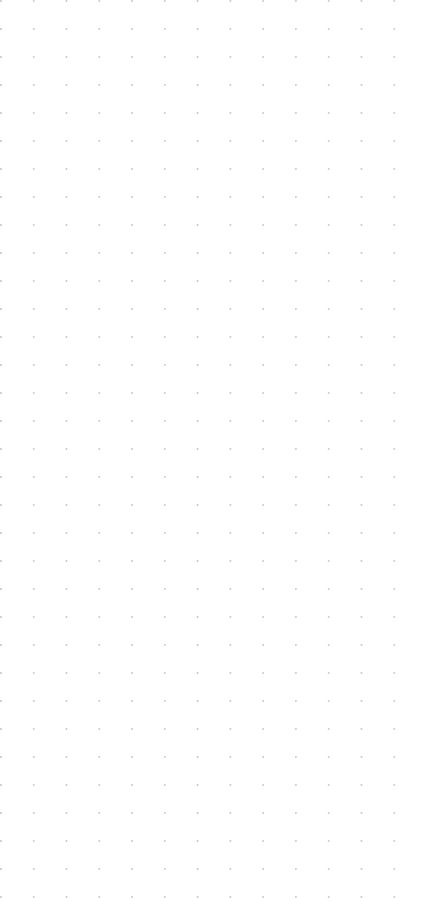
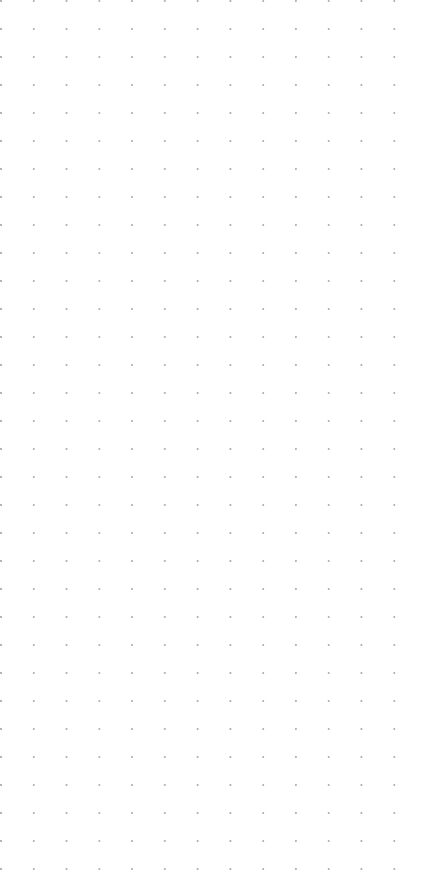
add: head tags

diff --git a/pages/index.tsx b/pages/index.tsx
@@ -132,28 +132,28 @@ export default function Home() {
               description={translation[language].projects_section[1].desc}
               githubUrl="https://github.com/thiagoSalaberry/frontend"
               pageUrl="https://frontend-seven-blond.vercel.app/"
-              techList={[<TechLogo tech="react"/>, <TechLogo tech="next"/>, <TechLogo tech="typescript"/>, <TechLogo tech="firebase"/>]}
+              techList={[<TechLogo tech="react" key={1}/>, <TechLogo tech="next" key={2}/>, <TechLogo tech="typescript" key={3}/>, <TechLogo tech="firebase" key={4}/>]}
           />
           <ProjectCard
               title={translation[language].projects_section[2].title}
               description={translation[language].projects_section[2].desc}
               githubUrl="https://github.com/thiagoSalaberry/landing-page"
               pageUrl="https://landing-page-zeta-mauve.vercel.app/"
-              techList={[<TechLogo tech="react"/>, <TechLogo tech="next"/>, <TechLogo tech="typescript"/>, <TechLogo tech="styled-components"/>]}
+              techList={[<TechLogo tech="react"key={1}/>, <TechLogo tech="next"key={2}/>, <TechLogo tech="typescript"key={3}/>, <TechLogo tech="styled-components"key={4}/>]}
           />
           <ProjectCard
               title={translation[language].projects_section[3].title}
               description={translation[language].projects_section[3].desc}
               githubUrl="https://github.com/thiagoSalaberry/ppt-online"
               pageUrl="https://ppt-online-react.vercel.app/"              
-              techList={[<TechLogo tech="react"/>, <TechLogo tech="next"/>, <TechLogo tech="typescript"/>, <TechLogo tech="firebase"/>]}
+              techList={[<TechLogo tech="react" key={1}/>, <TechLogo tech="next" key={2}/>, <TechLogo tech="typescript" key={3}/>, <TechLogo tech="firebase" key={4}/>]}
           />
           <ProjectCard
               title={translation[language].projects_section[4].title}
               description={translation[language].projects_section[4].desc}
               githubUrl=""
               pageUrl=""
-              techList={[<TechLogo tech="react"/>, <TechLogo tech="next"/>, <TechLogo tech="typescript"/>, <TechLogo tech="postgresql"/>]}
+              techList={[<TechLogo tech="react" key={1}/>, <TechLogo tech="next" key={2}/>, <TechLogo tech="typescript" key={3}/>, <TechLogo tech="postgresql" key={4}/>]}
           />
         </div>
       </section>

diff --git a/components/header/index.tsx b/components/header/index.tsx
@@ -16,10 +16,10 @@ export default function Header() {
                 <Hamburguer />
                 <nav className={`${styles["header__nav"]} ${styles["desktop"]}`}>
                     <ul className={styles["header__nav__list"]}>
-                        <li className={styles["header__nav__list__item"]} onClick={()=>scrollToSection("techs")}>{translation[language].techs_section.title}</li>
-                        <li className={styles["header__nav__list__item"]} onClick={()=>scrollToSection("projects")}>{translation[language].projects_section.title}</li>
-                        <li className={styles["header__nav__list__item"]} onClick={()=>scrollToSection("about__me")}>{translation[language].about_me_section.title}</li>
-                        <li className={styles["header__nav__list__item"]} onClick={()=>scrollToSection("contact")}>{translation[language].contact_section.title}</li>
+                        <li key={1} className={styles["header__nav__list__item"]} onClick={()=>scrollToSection("techs")}>{translation[language].techs_section.title}</li>
+                        <li key={2} className={styles["header__nav__list__item"]} onClick={()=>scrollToSection("projects")}>{translation[language].projects_section.title}</li>
+                        <li key={3} className={styles["header__nav__list__item"]} onClick={()=>scrollToSection("about__me")}>{translation[language].about_me_section.title}</li>
+                        <li key={4} className={styles["header__nav__list__item"]} onClick={()=>scrollToSection("contact")}>{translation[language].contact_section.title}</li>
                     </ul>
                 </nav>
             </div>

diff --git a/pages/_app.tsx b/pages/_app.tsx
@@ -1,9 +1,14 @@
 import '@/styles/globals.css'
 import type { AppProps } from 'next/app'
 import { RecoilRoot } from 'recoil'
+import Head from 'next/head'
 export default function App({ Component, pageProps }: AppProps) {
   return (
       <RecoilRoot>
+        <Head>
+          <title>Portfolio</title>
+          <link rel="icon" href="suitcase-lg.svg" type="image/png"/>
+        </Head>
         <Component {...pageProps} />
       </RecoilRoot>
     )

diff --git a/styles/globals.css b/styles/globals.css
@@ -30,6 +30,6 @@ body {
   max-width: 100vw;
   overflow-x: hidden;
   background: var(--background);
-  background-image: url("/dots1.png");
+  background-image: url("/dots.png");
   font-family: "Poppins";
 }

diff --git a/atoms/languageState.ts b/atoms/languageState.ts
@@ -1,6 +1,6 @@
 import { atom } from "recoil";
 
 export const languajeState = atom<Language>({
-  key: "laguage",
+  key: "languajeState",
   default: "es",
 });
